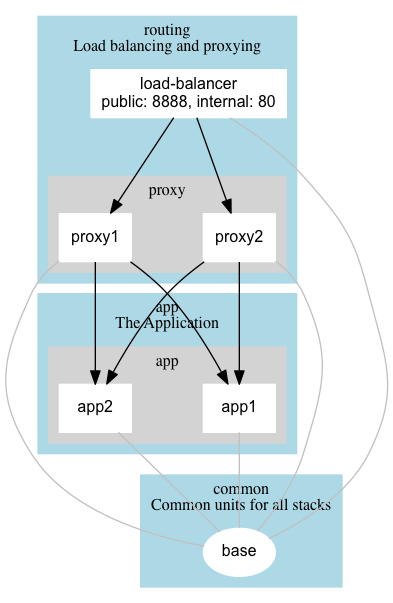
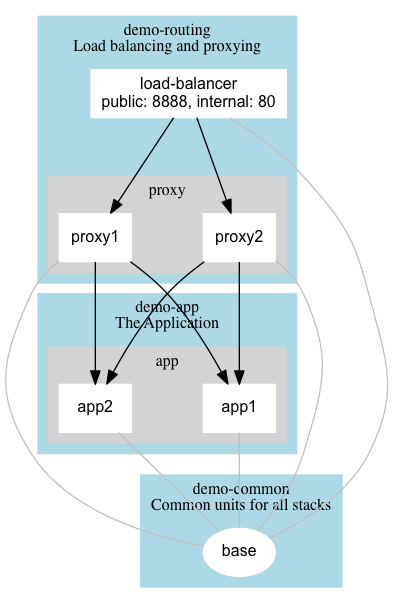
checkpoint

diff --git a/index.html b/index.html
@@ -85,11 +85,11 @@ docker:
   ssl_verify_peer: false
 
 stacks:
-  - name: "common"
+  - name: "demo-common"
     description: "Common units for all stacks"
     units: [...]
   - ...
-  - name: "app"
+  - name: "demo-app"
     description: "The Application"
     units: [...]
 ```
@@ -111,12 +111,12 @@ Example:
 
 ```ruby
 stacks:
-  - name: "routing"
+  - name: "demo-routing"
     description: "Load balancing and proxying"
     units:
       - name: "load-balancer"
         ...
-      - name: "app"
+      - name: "demo-app"
 ```
 
 ???
@@ -177,7 +177,7 @@ docker:
   ssl_verify_peer: false
 
 stacks:
-  - name: "common"
+  - name: "demo-common"
     description: "Common units for all stacks"
     units:
       - name: "base"
@@ -185,7 +185,7 @@ stacks:
         dockerfile: "common/Dockerfile"
         startable: false
 
-  - name: "routing"
+  - name: "demo-routing"
     description: "Load balancing and proxying"
     units:
       - name: "load-balancer"
@@ -194,7 +194,7 @@ stacks:
         ports:
           - 8888:80
         dependant_unit_names:
-          - "common:base"
+          - "demo-common:base"
           - "proxy1"
           - "proxy2"
 
@@ -203,11 +203,11 @@ stacks:
         version: 1.0.0
         dockerfile: "proxy/Dockerfile"
         dependant_unit_names:
-          - "common:base"
-          - "app:app1"
-          - "app:app2"
+          - "demo-common:base"
+          - "demo-app:app1"
+          - "demo-app:app2"
 
-  - name: "app"
+  - name: "demo-app"
     description: "The Application"
     units:
       - name: "app"
@@ -215,7 +215,8 @@ stacks:
         version: 1.0.0
         dockerfile: "app/Dockerfile"
         dependant_unit_names:
-          - "common:base"
+          - "demo-common:base"
+
 ```
 
 ---
@@ -229,7 +230,7 @@ class: percheron_list_output
 $ bundle exec percheron list
 
 +------+----+----------+-----+-------+---------+---------+
-|                         common                         |
+|                      demo-common                       |
 +------+----+----------+-----+-------+---------+---------+
 | Unit | ID | Running? | IP  | Ports | Volumes | Version |
 +------+----+----------+-----+-------+---------+---------+
@@ -237,7 +238,7 @@ $ bundle exec percheron list
 +------+----+----------+-----+-------+---------+---------+
 
 +---------------+----+----------+-----+---------+---------+---------+
-|                              routing                              |
+|                           demo-routing                            |
 +---------------+----+----------+-----+---------+---------+---------+
 | Unit          | ID | Running? | IP  | Ports   | Volumes | Version |
 +---------------+----+----------+-----+---------+---------+---------+
@@ -247,7 +248,7 @@ $ bundle exec percheron list
 +---------------+----+----------+-----+---------+---------+---------+
 
 +------+----+----------+-----+-------+---------+---------+
-|                          app                           |
+|                        demo-app                        |
 +------+----+----------+-----+-------+---------+---------+
 | Unit | ID | Running? | IP  | Ports | Volumes | Version |
 +------+----+----------+-----+-------+---------+---------+
